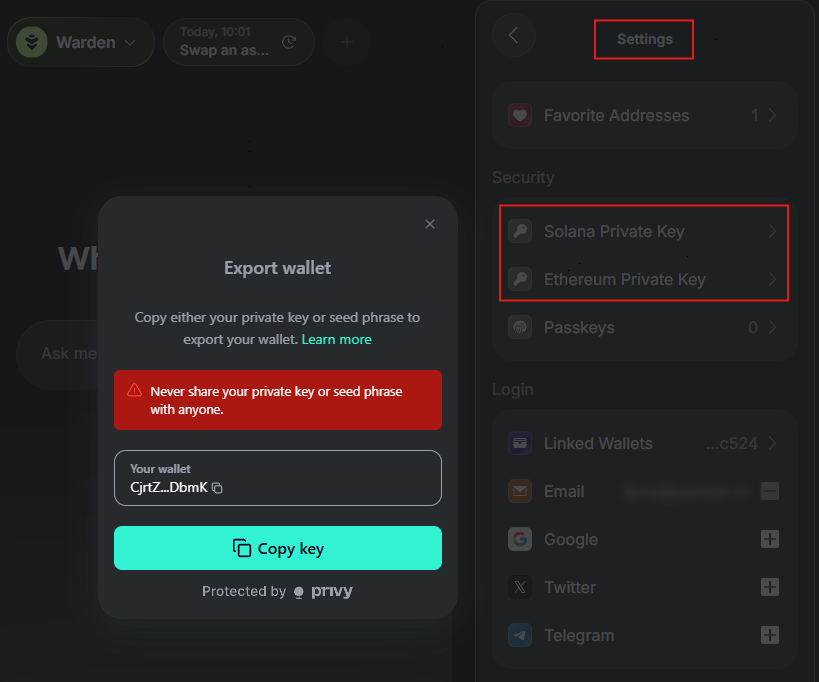
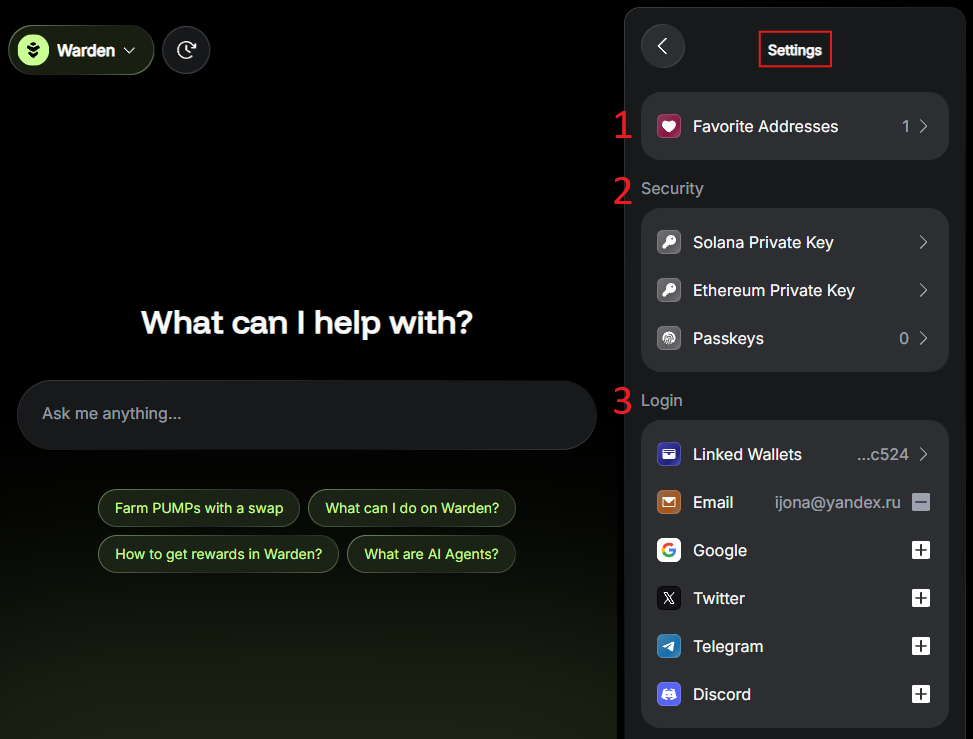
edited the airdrop guide and the wallet guide

diff --git a/docs/help-center/docs/warden-app/register-for-airdrop.md b/docs/help-center/docs/warden-app/register-for-airdrop.md
@@ -1,0 +1,96 @@
+---
+sidebar_position: 9
+---
+
+# Register for the airdrop
+
+## Overview
+
+Registration for the [WARD](https://docs.wardenprotocol.org/ward/introduction) airdrop is going live.
+
+You can sign up through the **Airdrop Registration Portal** in Warden. Before, you may need to prepare your account—follow this guide to learn more.
+
+:::warning
+Make sure that you only access the Airdrop Portal through [Warden](https://app.wardenprotocol.org). Do not click in any external or social link. 
+:::
+
+## Important information
+
+- All registration happens in [Warden](https://app.wardenprotocol.org). We'll **never** ask you to connect your wallet to any third-party website.
+- You must have an active [Warden account](manage-your-wallets#the-main-account) to register and claim rewards.
+- Linking any external wallet or account must happen **before** the registration.
+- Registration does not guarantee rewards. Allocations will be provided at the claiming stage.
+- Users who do not register will not be able to participate in the claiming phase.
+
+## Register
+
+Before registering on the Airdrop Portal, make sure your [Warden account](manage-your-wallets#the-main-account) is ready. The steps below depend on your user type.
+
+### Warden users
+
+Your Warden account already contains all the necessary information, and no additional action is required. Just register on the Airdrop Portal.
+
+### Kaito yappers
+
+Before registering on the Airdrop Portal, link your X account to your Warden account.
+
+1. Log in: 👉 [Warden](https://app.wardenprotocol.org)
+2. Click the wallet icon at the top right. This will open your account.
+3. Go to to **Settings** by clicking the gear icon.
+4. In the **Login** section, link your X (Twitter) account to your Warden account.
+
+Once linked, we'll track the mindshare you generated during the Kaito Pre-TGE campaign. Remember: the Kaito campaign required use of Warden.
+
+![Access your account settings in Warden](../../static/img/warden-app/manage-your-wallets-main-4.png)
+![Link your X account in Warden](../../static/img/warden-app/airdrop-1.png)
+
+### WARP holders & stakers
+
+Before registering on the Airdrop Portal, link your wallets containing **WARP** or **staked WARP** to your Warden account:
+
+1. Identify your wallets containing WARP or staked WARP on [YieldWard](https://yieldward.com).
+2. Log in: 👉 [Warden](https://app.wardenprotocol.org)
+3. Click the wallet icon at the top right. This will open your account.
+4. Go to **Settings** by clicking the gear icon.
+5. In the **Login** section, click **Linked Wallets** and follow the instructions.
+
+![Access your account settings in Warden](../../static/img/warden-app/manage-your-wallets-main-4.png)
+![Link your external wallet in Warden](../../static/img/warden-app/airdrop-2.png)
+
+### OPEN OG
+
+To qualify for the airdrop, you must meet **both** of the following requirements:
+
+- The minimum required amount of **LVVA** or **staked LVVA**
+- The unique NFT on **Base**, owned by the same wallet address that holds LVVA
+
+:::important
+If you meet only one of the requirements, you will not be able to participate in the claiming stage. 
+:::
+
+Before registering on the Airdrop Portal, link your wallets containing these assets to your Warden account:
+
+1. If you hold or stake your LVVA tokens on Levva, make sure that the unique NFT is owned by the same wallet address, even if the NFT is on Base.
+2. Log in: 👉 [Warden](https://app.wardenprotocol.org)
+3. Click the wallet icon at the top right. This will open your account.
+4. Go to **Settings** by clicking the gear icon.
+5. In the **Login** section, click **Linked Wallets** and follow the instructions.
+
+![Access your account settings in Warden](../../static/img/warden-app/manage-your-wallets-main-4.png)
+![Link your external wallet in Warden](../../static/img/warden-app/airdrop-2.png)
+
+### Ambassadors
+
+Every **ambassador** needs to link their X and Discord accounts:
+
+2. Log in: 👉 [Warden](https://app.wardenprotocol.org)
+3. Click the wallet icon at the top right. This will open your account.
+4. Go to **Settings** by clicking the gear icon.
+5. In the **Login** section, link your X (Twitter) and Discord.
+
+![Access your account settings in Warden](../../static/img/warden-app/manage-your-wallets-main-4.png)
+![Link your X and Discord accounts in Warden](../../static/img/warden-app/airdrop-3.png)
+
+### Wallchain Quacks holders
+
+The distribution for **Wallchain Quacks** will happen through [Wallchain](https://www.wallchain.xyz). Registration is not required at this stage unless you qualify under another category.

diff --git a/docs/help-center/docs/warden-app/manage-your-wallets.md b/docs/help-center/docs/warden-app/manage-your-wallets.md
@@ -29,7 +29,9 @@ You can access your wallets from any Warden tab:
 
 ## The main account
 
-The **main account** is the main Warden wallet holding your funds on all the supported chains. Here you can view your balances and activity, initiate transactions, whitelist addresses, and manage other settings.
+The **main account** is the main Warden wallet holding your funds on all the supported chains. Here you can view your balances and activity and initiate transactions.
+
+You can also configure and manage your account: whitelist addresses, get your private key, and link external accounts, such as Web3 wallets, emails, and social accounts.
 
 ### Deposit
 
@@ -91,42 +93,6 @@ Alternatively, you can go to the **Chats** tab and ask the default [Warden Agent
 
 ![View your balance and activity in Warden](../../static/img/warden-app/manage-your-wallets-main-2.png)
 
-### Configure
-
-To access your Warden account settings, [open any wallet](#access-your-wallets) and click the gear icon at the top:
-
-![Access your account settings in Warden](../../static/img/warden-app/manage-your-wallets-main-3.png)
-
-The following settings are available:
-
-- **Favorite Addresses**: Whitelist addresses to reference them by name in the [AI chat](use-the-chat).
-- **Security**: Manage your private keys and passkeys.
-- **Login**:
-  - Link and unlink Web3 wallets (for [depositing assets](#deposit)).
-  - Add an authentication method.
-
-![The available wallet settings in Warden](../../static/img/warden-app/manage-your-wallets-main-4.png)
-
-### Get the private key
-
-To get your private key, take these steps:
-
-1. [Open any wallet](#access-your-wallets).
-2. Click the gear icon at the top to access your account settings.
-3. In the **Security** section, click your private key on the desired network.
-4. Click **Copy key**.
-
-:::warning
-Never share your private key with anyone. It grants full access to your assets.
-:::
-
-:::note
-You can use your private key to export the wallet. To learn more, see [Privy docs](https://privy-io.notion.site/Transferring-your-account-9dab9e16c6034a7ab1ff7fa479b02828).
-:::
-
-![Access your account settings in Warden](../../static/img/warden-app/manage-your-wallets-main-3.png)
-![Copy your private key in Warden](../../static/img/warden-app/manage-your-wallets-main-5.png)
-
 ### Get the address
 
 To copy your wallet address (the public key), take these steps:
@@ -135,7 +101,26 @@ To copy your wallet address (the public key), take these steps:
 2. Click **Addresses**.
 3. Select an address associated with the desired network.
 
-![Access your addresses in Warden](../../static/img/warden-app/manage-your-wallets-main-6.png)
+![Access your addresses in Warden](../../static/img/warden-app/manage-your-wallets-main-3.png)
+
+### Configure
+
+To access your Warden account settings, [open any wallet](#access-your-wallets) and click the gear icon at the top:
+
+![Access your account settings in Warden](../../static/img/warden-app/manage-your-wallets-main-4.png)
+
+The following options are available:
+
+1. **Favorite Addresses**: Whitelist an address. You can reference your favorite addresses by name in the [AI chat](use-the-chat).
+2. **Security**:
+   - To manage your passkeys, click **Passkeys**.
+   - To export your wallet, click your private key on the desired network and then click **Copy key**. Never share your private key with anyone—it grants full access to your assets. To learn more, see [Privy docs](https://privy-io.notion.site/Transferring-your-account-9dab9e16c6034a7ab1ff7fa479b02828). 
+3. **Login**: Here you can link and unlink external accounts:
+   - **Linked Wallets**: Link Web3 wallets (for [depositing assets](#deposit)).
+   - **Email** & **Google**: Add an authentication method.
+   - **Twitter**, **Telegram**, **Discord**: Link your social accounts.
+
+![The available wallet settings in Warden](../../static/img/warden-app/manage-your-wallets-main-5.png)
 
 ## Dedicated wallets
 

diff --git a/docs/help-center/docs/warden-app/whats-new.md b/docs/help-center/docs/warden-app/whats-new.md
@@ -1,5 +1,5 @@
 ---
-sidebar_position: 10
+sidebar_position: 11
 ---
 
 # What's new?

diff --git a/docs/help-center/docs/warden-app/fees.md b/docs/help-center/docs/warden-app/fees.md
@@ -1,5 +1,5 @@
 ---
-sidebar_position: 9
+sidebar_position: 10
 ---
 
 # Fees
